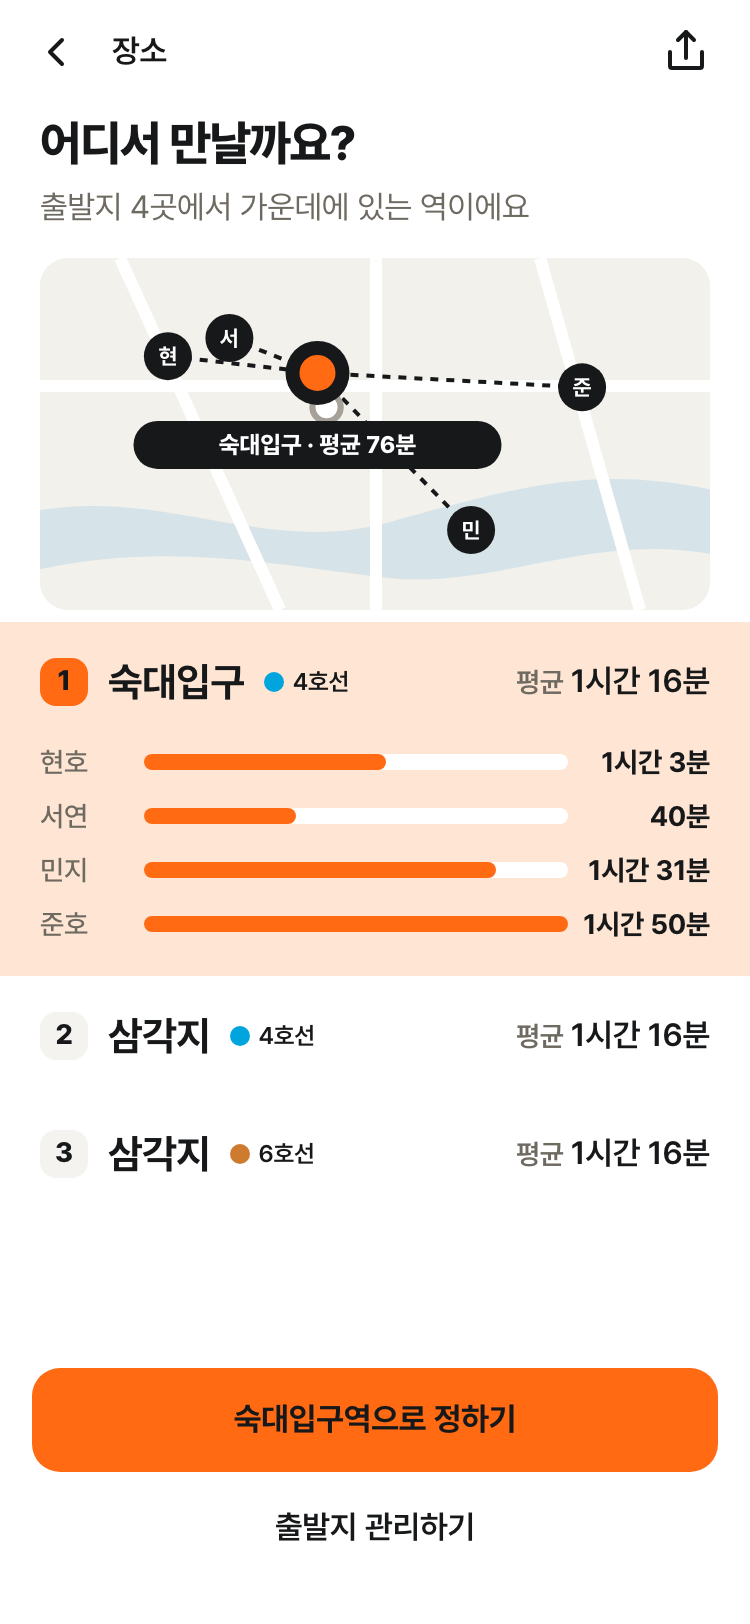
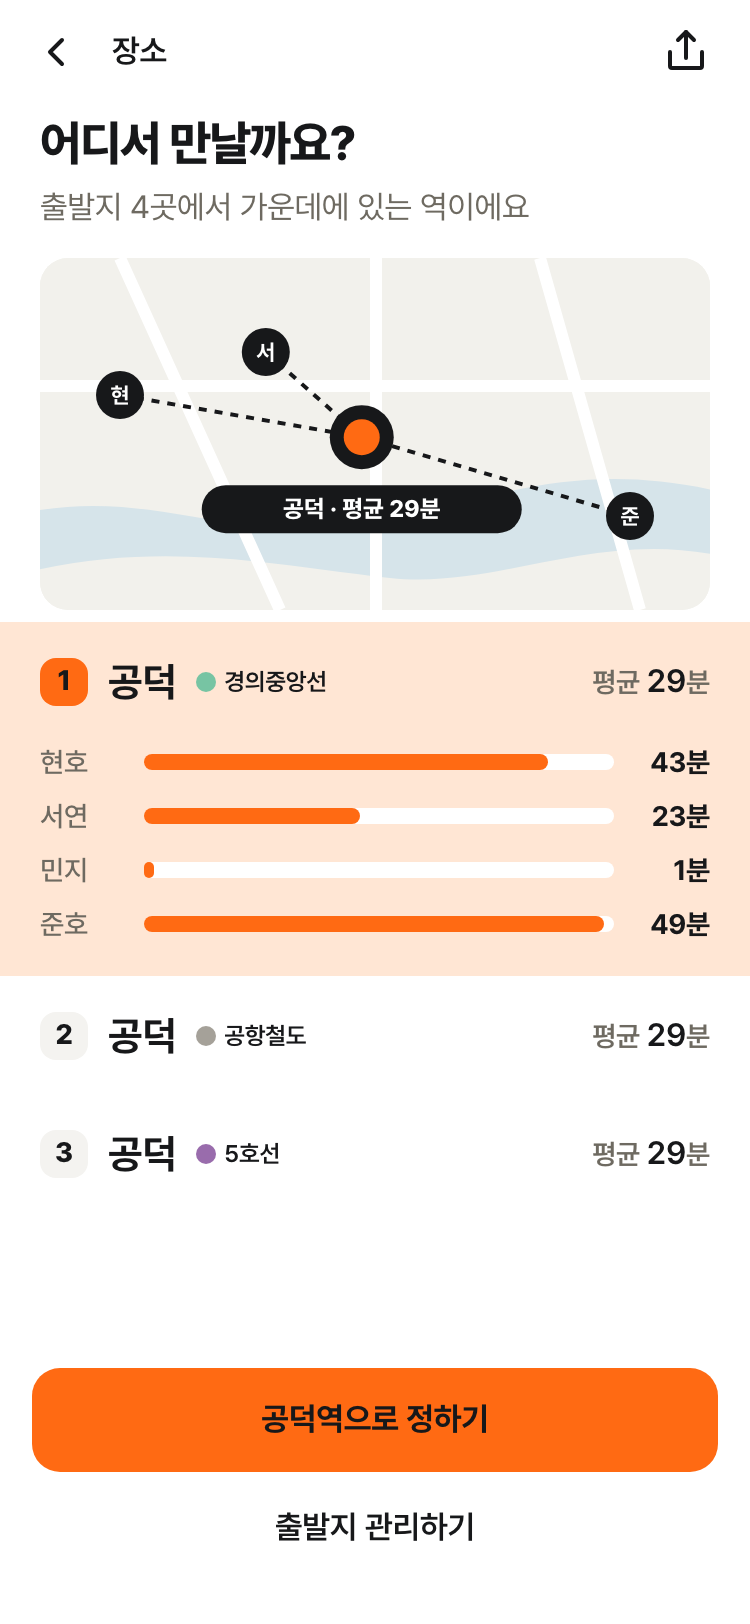
fix(app): 지도 라벨 시간 표기와 스켈레톤 하이드레이션, 캡처 출발지 조정
Claude-Session: https://claude.ai/code/session_01LcqnJLJ9tmhE7G2jz9EpLE

diff --git a/app/src/components/layout/skeleton.tsx b/app/src/components/layout/skeleton.tsx
@@ -1,11 +1,10 @@
 "use client";
 
-import { motion, useReducedMotion } from "motion/react";
+import { motion } from "motion/react";
 import { cn } from "@/lib/cn";
 
-/** 불러오는 자리의 뼈대. ink-100 바탕에 ink-200 띠가 1.2초 주기로 지나간다. 줄이기 설정이면 띠 없음. */
+/** 불러오는 자리의 뼈대. ink-100 바탕에 ink-200 띠가 1.2초 주기로 지나간다. 줄이기 설정이면 CSS로 띠를 숨긴다(서버와 클라이언트가 같은 마크업을 그리도록). */
 export function Skeleton({ className }: { className?: string }) {
-  const reduce = useReducedMotion();
   return (
     <div
       aria-hidden="true"
@@ -15,19 +14,17 @@ export function Skeleton({ className }: { className?: string }) {
         className,
       )}
     >
-      {reduce ? null : (
-        <motion.span
-          data-skeleton-band
-          className="bg-ink-200 absolute inset-y-0 w-1/2"
-          initial={{ x: "-100%" }}
-          animate={{ x: "300%" }}
-          transition={{
-            duration: 1.2,
-            ease: "linear",
-            repeat: Infinity,
-          }}
-        />
-      )}
+      <motion.span
+        data-skeleton-band
+        className="bg-ink-200 absolute inset-y-0 w-1/2 motion-reduce:hidden"
+        initial={{ x: "-100%" }}
+        animate={{ x: "300%" }}
+        transition={{
+          duration: 1.2,
+          ease: "linear",
+          repeat: Infinity,
+        }}
+      />
     </div>
   );
 }

diff --git a/app/e2e/capture-screens.spec.ts b/app/e2e/capture-screens.spec.ts
@@ -15,11 +15,12 @@ const KEYS = {
   민지: "capshotminji000000001",
   준호: "capshotjunho000000001",
 };
+// 이동 시간이 20~45분쯤 나오도록 마포, 서대문, 용산에 모여 있는 출발지를 쓴다(목 이동 시간은 거리로 계산한다).
 const PLACES = {
   현호: { label: "합정역", lat: 37.5497, lng: 126.9137 },
   서연: { label: "신촌역", lat: 37.5551, lng: 126.9368 },
-  민지: { label: "강남역", lat: 37.4979, lng: 127.0276 },
-  준호: { label: "건대입구역", lat: 37.5404, lng: 127.0693 },
+  민지: { label: "공덕역", lat: 37.544, lng: 126.9516 },
+  준호: { label: "이태원역", lat: 37.5345, lng: 126.9945 },
 } as const;
 type Name = keyof typeof PLACES;
 

diff --git a/app/src/components/map/map.test.tsx b/app/src/components/map/map.test.tsx
@@ -117,6 +117,17 @@ test("키가 없으면 MeetMap은 바로 그림 지도를 그린다", () => {
   expect(screen.getByText("녹사평 · 평균 30분")).toBeInTheDocument();
 });
 
+test("지도 라벨의 평균 시간도 목록처럼 시간과 분으로 쓴다", () => {
+  render(
+    <MeetMap
+      departures={departures}
+      stations={[{ ...stations[0], averageMinutes: 76 }]}
+      selectedId={1}
+    />,
+  );
+  expect(screen.getByText("녹사평 · 평균 1시간 16분")).toBeInTheDocument();
+});
+
 test("카카오 SDK가 3초 안에 그리지 못하면 그림 지도로 바뀐다", () => {
   vi.useFakeTimers();
   vi.stubEnv("NEXT_PUBLIC_KAKAO_MAP_KEY", "test-key");

diff --git a/app/src/components/map/simple-map.tsx b/app/src/components/map/simple-map.tsx
@@ -1,3 +1,4 @@
+import { formatDuration } from "@/components/location/format";
 import type { Departure, Station } from "@/lib/api-types";
 
 export type MapProps = {
@@ -77,7 +78,7 @@ export function placeLabel(
 }
 
 export function stationLabel(station: Station) {
-  return `${station.name} · 평균 ${Math.round(station.averageMinutes)}분`;
+  return `${station.name} · 평균 ${formatDuration(station.averageMinutes)}`;
 }
 
 /** 키가 없거나 SDK가 실패했을 때 쓰는 그림 지도. 시안 #stations의 지도와 같은 그림이다. */
